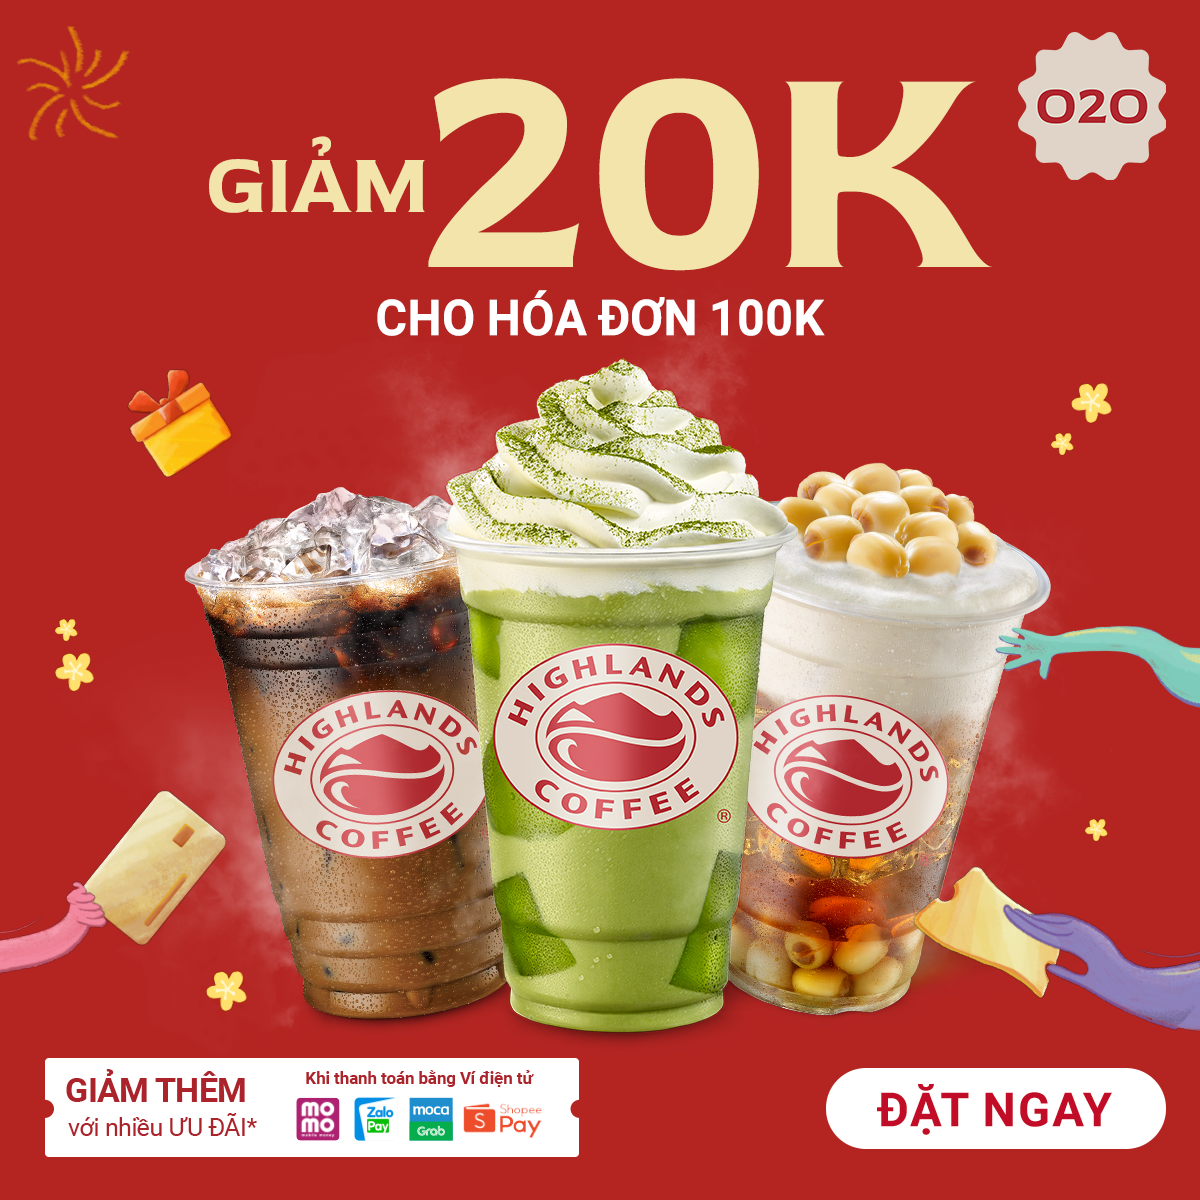
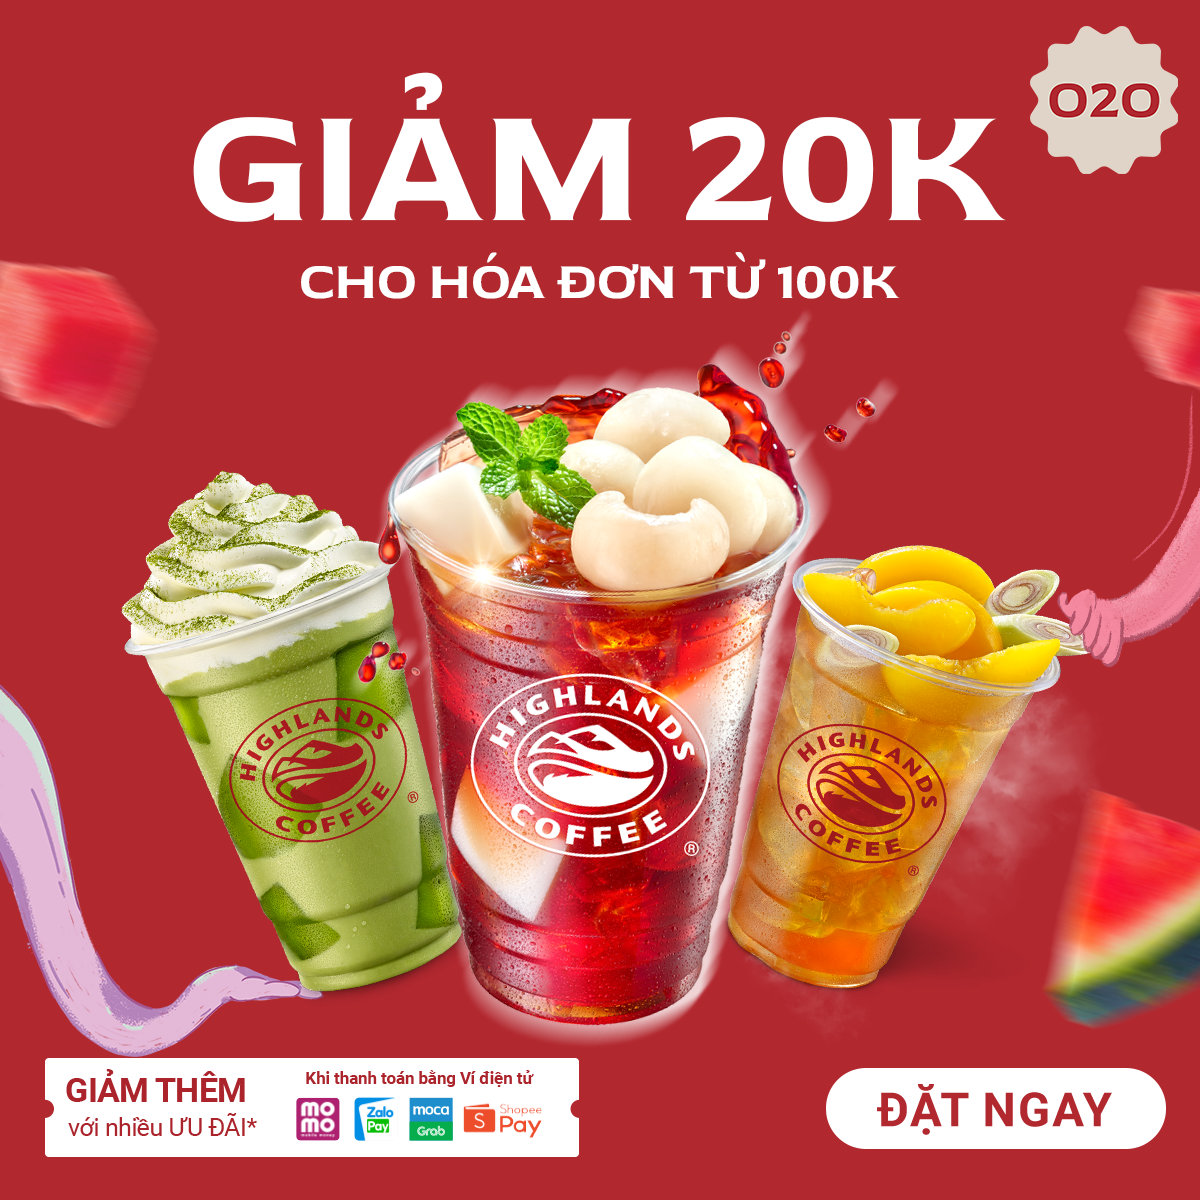
Change to April

diff --git a/index.html b/index.html
@@ -5,8 +5,8 @@
     <meta charset="UTF-8">
     <meta http-equiv="X-UA-Compatible" content="IE=edge">
     <meta name="viewport" content="width=device-width, initial-scale=1.0">
-    <meta name="description" content="Nhận ngay khuyến mãi, ưu đãi Highlands mới nhất, hấp dẫn nhất. Chương trình Ưu đãi Highlands tháng 3">
-    <title>Mã khuyến mãi highlands, ưu đãi highlands, voucher highlands mới nhất - Ưu đãi highlands tháng 3</title>
+    <meta name="description" content="Nhận ngay khuyến mãi, ưu đãi Highlands mới nhất, hấp dẫn nhất. Chương trình Ưu đãi Highlands tháng 4">
+    <title>Mã khuyến mãi highlands, ưu đãi highlands, voucher highlands mới nhất - Ưu đãi highlands tháng 4</title>
     <link rel="preconnect" href="https://fonts.googleapis.com">
     <link rel="preconnect" href="https://fonts.gstatic.com" crossorigin>
     <link rel="stylesheet" href="font-awesome-pro-v6-6/css/all.css">
@@ -31,7 +31,7 @@
     </header>
     <main id="main">
         <div class="title">
-            <h1>Mã khuyến mãi highlands, ưu đãi highlands, voucher highlands mới nhất - Ưu đãi highlands tháng 3</h1>
+            <h1>Mã khuyến mãi highlands, ưu đãi highlands, voucher highlands mới nhất - Ưu đãi highlands tháng 4</h1>
             <h2>Còn chần chừ gì nữa mà không nhận ngay những khuyến mãi, ưu đãi Highlands hấp dẫn từ chính thương hiệu Coffee quốc dân này</h2>
         </div>
         <div class="opening">
@@ -77,13 +77,14 @@
                 <h4>Ưu đãi Highlands áp dụng cho sản phẩm: Trà, Freeze và PhinDi</h4>
                 <p>Mô tả về ưu đãi Highlands:</p>
                 <ul>
-                    <li>Mua 02 đồ uống: 01 ly cỡ lớn + 01 ly cỡ nhỏ cùng dòng, khách hàng chỉ cần trả tiền cho 01 ly cỡ lớn.</li>
+                    <li>Mua 02 ly cỡ lớn hoặc 02 ly cỡ vừa cùng dòng, khách hàng được tặng thêm 01 ly cỡ nhỏ cùng dòng.</li>
                     <li>Khách hàng có thể trả thêm để đổi sang cỡ vừa hoặc lớn.</li>
                     <li><strong>KHÔNG</strong> áp dụng cho dòng sản phẩm Trà Nhiệt Đới</li>
                     <li>Mỗi mã khuyến mãi chỉ áp dụng trên 1 sản phẩm.</li>
                     <li>Mỗi mã khuyến mãi chỉ được sử dụng 1 lần và chỉ áp dụng trên 1 hóa đơn.</li>
                     <li>Không có giá trị quy đổi thành tiền.</li>
                     <li>Không áp dụng cùng các chương trình khuyến mãi khác và các đối tác giao hàng.</li>
+                    <li><span style="color: #03C988;">KHÔNG áp dụng vào các ngày 29/4 và 30/4</span></li>
                 </ul>
                 <div class="center-content">
                     <img src="images/uu-dai-highlands-mua02tang01.png" alt="mã khuyến mãi highlands, ưu đãi highlands, voucher highlands">
@@ -104,6 +105,7 @@
                     <li>Mỗi mã khuyến mãi chỉ được sử dụng 1 lần và chỉ áp dụng trên 1 hóa đơn.</li>
                     <li>Không có giá trị quy đổi thành tiền.</li>
                     <li>Không áp dụng cùng các chương trình khuyến mãi khác và các đối tác giao hàng.</li>
+                    <li><span style="color: #03C988;">KHÔNG áp dụng vào các ngày 29/4 và 30/4</span></li>
                 </ul>
                 <div class="center-content">
                     <img src="images/uu-dai-highlands-giam20ktren100k.png" alt="mã khuyến mãi highlands, ưu đãi highlands, voucher highlands">
@@ -113,18 +115,20 @@
                 </div>
             </div>
             <div class="part">
-                <h3>Ưu đãi Highlands - Tặng Phindi size M cho hoá đơn từ 89.000đ</h3>
-                <h4>Ưu đãi Highlands áp dụng cho sản phẩm: Cho hoá đơn từ 89.000đ</h4>
+                <h3>Ưu đãi Highlands - Mua 2 tính tiền 1</h3>
+                <h4>Ưu đãi Highlands áp dụng cho sản phẩm: Freeze và PhinDi</h4>
                 <p>Mô tả về ưu đãi Highlands:</p>
                 <ul>
-                    <li>Tặng 1 Phindi (M) cho hóa đơn từ 89.000đ.</li>
+                    <li>Mua 02 ly cỡ lớn hoặc 2 ly cỡ vừa cùng dòng, khách hàng được tặng thêm 01 ly cỡ nhỏ cùng dòng.</li>
                     <li>Khách hàng có thể trả thêm để đổi sang cỡ vừa hoặc lớn.</li>
-                    <li>Mỗi mã khuyến mãi chỉ được sử dụng 1 lần và chỉ áp dụng trên 1 hóa đơn, cho 1 sản phẩm Phindi size M.</li>
+                    <li>Mỗi mã khuyến mãi chỉ được áp dụng trên 1 sản phẩm</li>
+                    <li>Mỗi mã khuyến mãi chỉ được sử dụng 1 lần và chỉ áp dụng trên 1 hóa đơn.</li>
                     <li>Không có giá trị quy đổi thành tiền.</li>
                     <li>Không áp dụng cùng các chương trình khuyến mãi khác và các đối tác giao hàng.</li>
+                    <li><span style="color: #03C988;">KHÔNG áp dụng vào các ngày 29/4 và 30/4</span></li>
                 </ul>
                 <div class="center-content">
-                    <img src="images/uu-dai-highlands-tangPhindiM.png" alt="mã khuyến mãi highlands, ưu đãi highlands, voucher highlands">
+                    <img src="images/uu-dai-highlands-mua02tinh01.png" alt="mã khuyến mãi highlands, ưu đãi highlands, voucher highlands">
                     <div class="direct-btn">
                         <a href="https://uudai4.highlandscoffee.com.vn/?utm_campaign=300_ADTC_MEDIA&utm_term=1411462&utm_content=pW3mFlRtgE4QfH8L8KG7qsVATu027vTEFnlsb8as5Xbhs57p&utm_id=accesstrade&utm_source=PAFFAT&utm_medium=DCPM&aff_sid=pW3mFlRtgE4QfH8L8KG7qsVATu027vTEFnlsb8as5Xbhs57p&atnct1=c8067ad1937f728f51288b3eb986afaa&atnct2=pW3mFlRtgE4QfH8L8KG7qsVATu027vTEFnlsb8as5Xbhs57p&atnct3=dsI1l000c2k00u93a">Nhận mã ưu đãi ngay</a>
                     </div>
